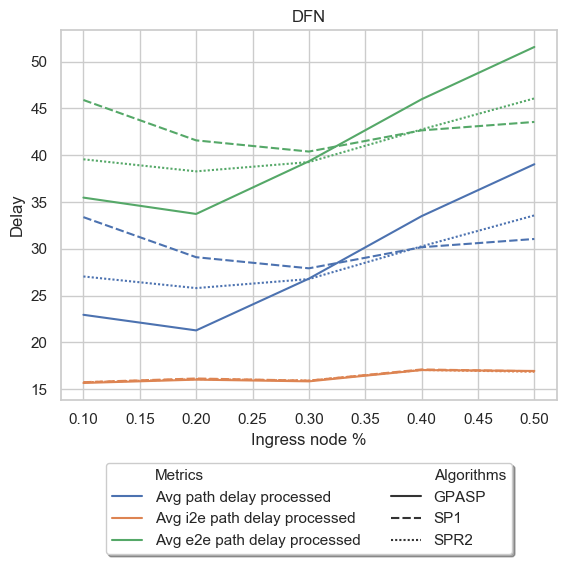
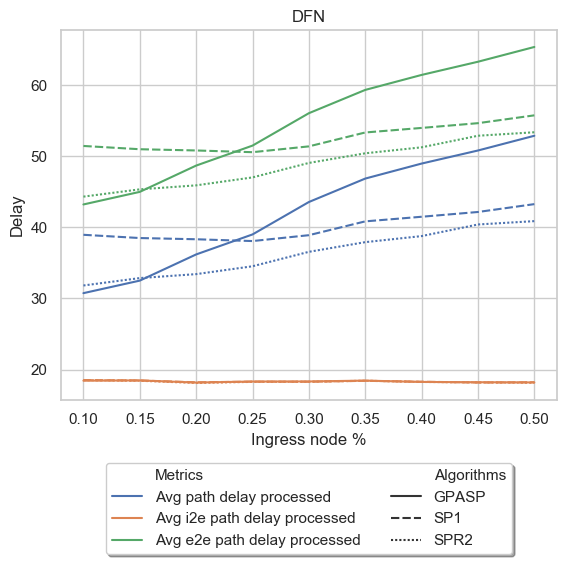
Adapt toolchain

diff --git a/src/algorithms/execution/3x3/aggregator.py b/src/algorithms/execution/3x3/aggregator.py
@@ -2,11 +2,11 @@ import csv
 import os
 
 scenarios = ['llc', 'lnc', 'hc']
-runs = ['0']
-# networks = ['bics_34.graphml', 'dfn_58.graphml', 'intellifiber_73.graphml']
-networks = ['dfn_58.graphml', 'intellifiber_73.graphml']
-# ingress = ['0.1', '0.15', '0.2', '0.25', '0.3', '0.35', '0.4', '0.45', '0.5']
-ingress = ['0.1', '0.2', '0.3', '0.4', '0.5']
+runs = [str(x) for x in range(8)]
+networks = ['bics_34.graphml', 'dfn_58.graphml', 'intellifiber_73.graphml']
+# networks = ['dfn_58.graphml', 'intellifiber_73.graphml']
+ingress = ['0.1', '0.15', '0.2', '0.25', '0.3', '0.35', '0.4', '0.45', '0.5']
+# ingress = ['0.1', '0.2', '0.3', '0.4', '0.5']
 algos = ['gpasp', 'spr1', 'spr2']
 
 metric_sets = {'flow': ['total_flows', 'successful_flows', 'dropped_flows', 'in_network_flows'],
@@ -109,11 +109,27 @@ def transform_data(data, metric_set, metric_set_id):
                             writer.writerow(row)
 
 
+def transform_data_confidence_intervall(data, metric_set, metric_set_id):
+    for s in scenarios:
+        for net in networks:
+            os.makedirs(f'transformed/{s}/{net}/{metric_set_id}/', exist_ok=True)
+            with open(f'transformed/{s}/{net}/{metric_set_id}/ci-t-metrics.csv', 'w', newline='') as csvfile:
+                writer = csv.writer(csvfile)
+                for r in runs:
+                    for a in algos:
+                        for ing in ingress:
+                            for m in metric_set:
+                                # x(ing), y(value), hue(metric), style(algo)
+                                row = [ing, data[s][r][net][ing][a][metrics2index[m]], f'{m}', f'{a}']
+                                writer.writerow(row)
+
+
 def main():
     data = collect_data()
     avg_data = average_data(data)
     for key, value in metric_sets.items():
         transform_data(avg_data, value, key)
+        transform_data_confidence_intervall(data, value, key)
     print('')
 
 

diff --git a/src/algorithms/execution/3x3/plotter.py b/src/algorithms/execution/3x3/plotter.py
@@ -1,8 +1,8 @@
 import subprocess
 
 scenarios = ['llc', 'lnc', 'hc']
-networks = ['dfn_58.graphml', 'intellifiber_73.graphml']
-# networks = ['bics_34.graphml', 'dfn_58.graphml', 'intellifiber_73.graphml']
+# networks = ['dfn_58.graphml', 'intellifiber_73.graphml']
+networks = ['bics_34.graphml', 'dfn_58.graphml', 'intellifiber_73.graphml']
 
 metric_sets = {'flow': ['total_flows', 'successful_flows', 'dropped_flows', 'in_network_flows'],
                'delay': ['avg_path_delay_of_processed_flows', 'avg_ingress_2_egress_path_delay_of_processed_flows',

diff --git a/src/algorithms/execution/time/aggregator.py b/src/algorithms/execution/time/aggregator.py
@@ -87,7 +87,7 @@ def transform_data(data, metric_set, metric_set_id):
 
 
 def main():
-    #avg_data = average_data(data)
+    data = collect_data()
     for key, value in metric_sets.items():
         transform_data(data, value, key)
     print('')
